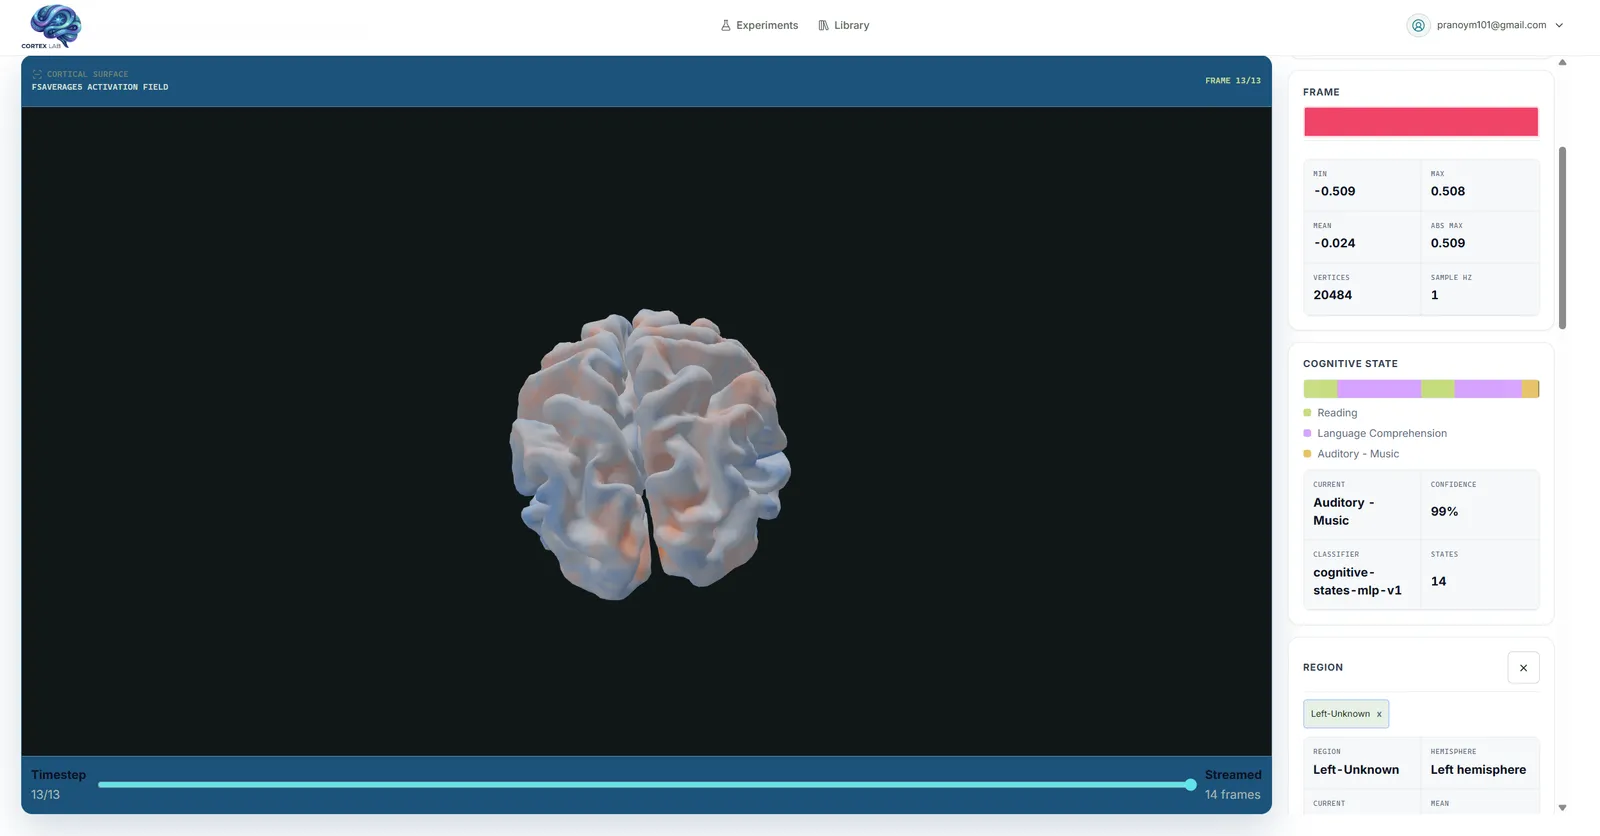
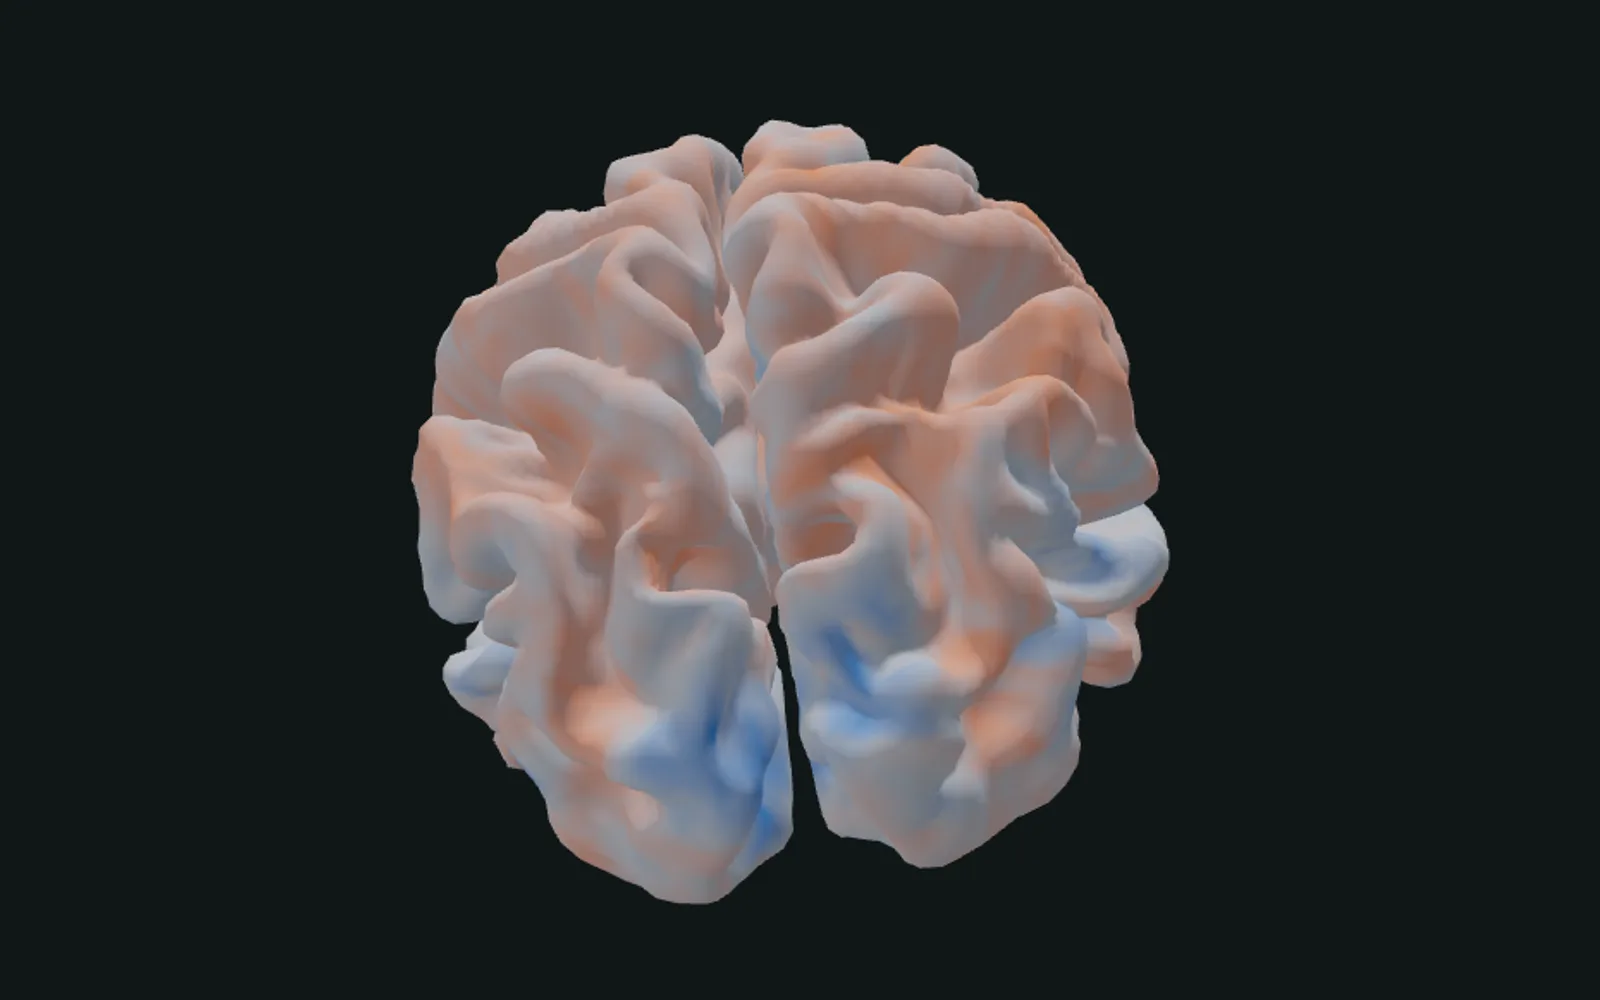
fix photo

diff --git a/src/components/projects/SelectedWork.tsx b/src/components/projects/SelectedWork.tsx
@@ -76,7 +76,9 @@ export function SelectedWork() {
                 </div>
                 <div className="project-preview">
                   <Image
-                    src={project.image}
+                    // The collapsed card is small, so it gets the tight crop; the
+                    // full interface shot only reads once the card is open.
+                    src={isExpanded && project.imageExpanded ? project.imageExpanded : project.image}
                     alt={`Visual preview for ${project.title}`}
                     fill
                     sizes="(max-width: 820px) 92vw, 46vw"

diff --git a/src/app/work/[slug]/page.tsx b/src/app/work/[slug]/page.tsx
@@ -49,7 +49,7 @@ export default async function ProjectPage({ params }: { params: Promise<{ slug: 
           <div className="tech-row">{project.technologies.map((technology) => <span key={technology}>{technology}</span>)}</div>
         </div>
         <div className="case-study-image">
-          <Image src={project.image} alt={`Preview of ${project.title}`} fill priority sizes="(max-width: 820px) 94vw, 48vw" />
+          <Image src={project.imageExpanded ?? project.image} alt={`Preview of ${project.title}`} fill priority sizes="(max-width: 820px) 94vw, 48vw" />
         </div>
       </header>
 

diff --git a/src/types/portfolio.ts b/src/types/portfolio.ts
@@ -36,6 +36,12 @@ export interface Project {
   solution: string;
   outcome?: string;
   image: string;
+  /**
+   * Optional larger view, used once the card is open and on the deep-dive page.
+   * A tight crop reads best in the small collapsed card, while a full interface
+   * shot only becomes legible at the larger size. Falls back to `image`.
+   */
+  imageExpanded?: string;
   accent: string;
   status?: string;
   github?: string;

diff --git a/src/content/projects.ts b/src/content/projects.ts
@@ -19,6 +19,7 @@ export const projects: Project[] = [
     outcome:
       "Deployed at cortex-lab.uk on Terraform-managed AWS infrastructure, with 245 backend tests passing and 3 integration tests skipped.",
     image: "/projects/cortex-lab.webp",
+    imageExpanded: "/projects/cortex-lab-expanded.webp",
     accent: "#ff4b2b",
     status: "Live",
     github: "https://github.com/Pranoym17/in-silico-Cortex-Lab",
